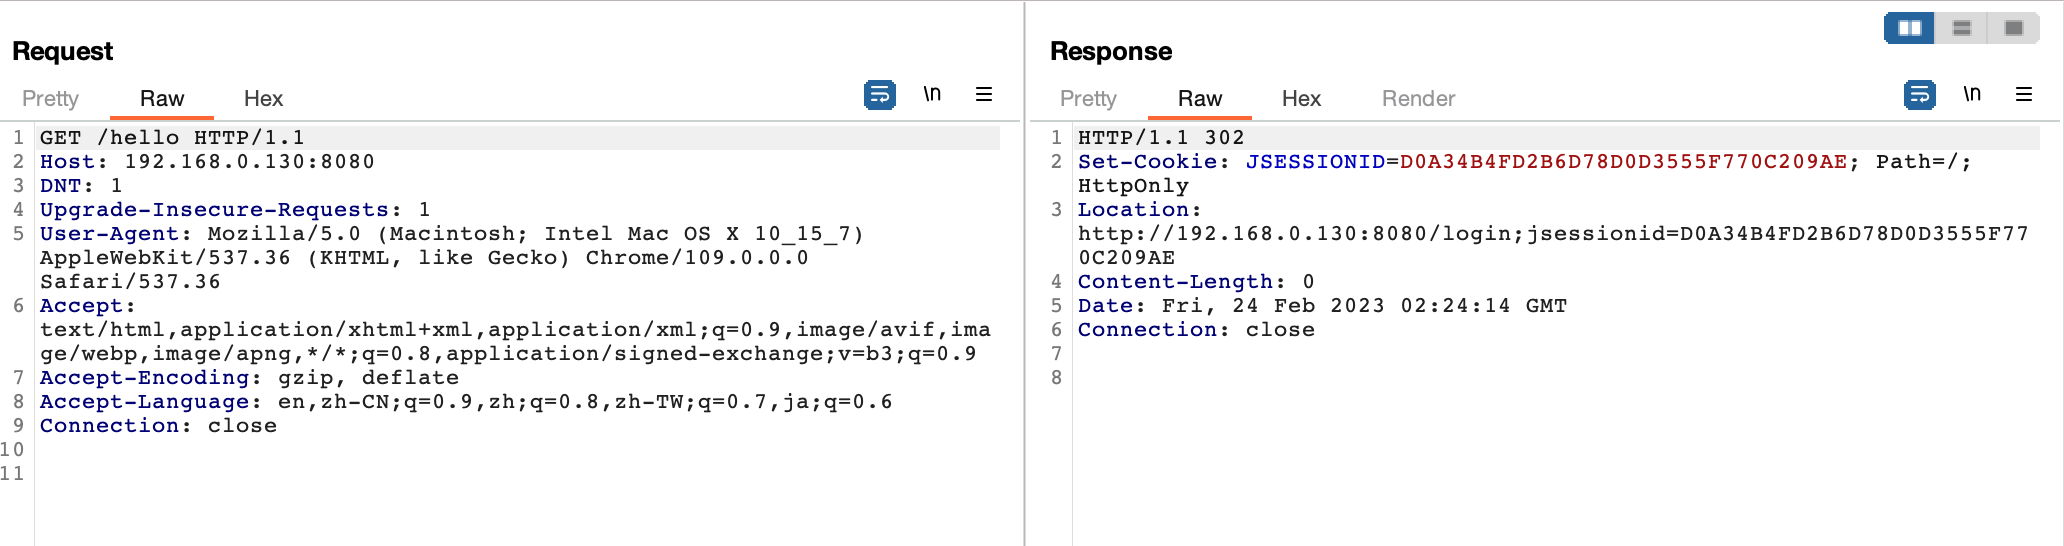
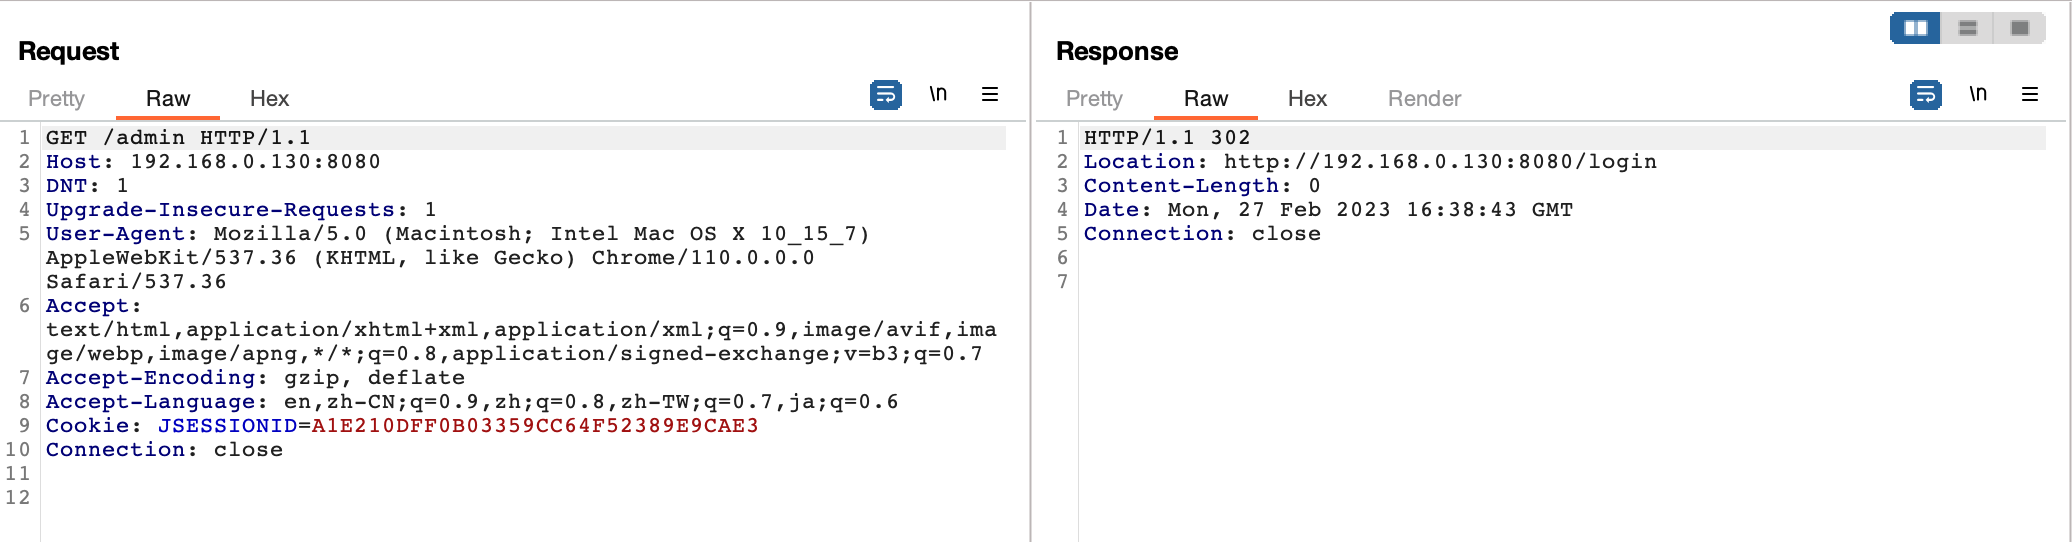
polish code

diff --git a/base/shiro/1.0.0/code/src/main/java/org/vulhub/shirodemo/UserController.java b/base/shiro/1.0.0/code/src/main/java/org/vulhub/shirodemo/UserController.java
@@ -21,9 +21,9 @@ public class UserController {
         return "forward:/";
     }
 
-    @RequestMapping("/hello")
+    @RequestMapping("/admin")
     public String helloPage() {
-        return "hello";
+        return "admin";
     }
 
     @RequestMapping("/unauth")
@@ -33,6 +33,11 @@ public class UserController {
 
     @RequestMapping("/login")
     public String loginPage() {
+        return "login";
+    }
+
+    @GetMapping("/")
+    public String index() {
         return "login";
     }
 }

diff --git a/base/shiro/1.0.0/code/src/main/java/org/vulhub/shirodemo/ShiroConfig.java b/base/shiro/1.0.0/code/src/main/java/org/vulhub/shirodemo/ShiroConfig.java
@@ -39,7 +39,7 @@ public class ShiroConfig {
         bean.setUnauthorizedUrl("/unauth");
         Map<String, String> map = new LinkedHashMap<>();
         map.put("/doLogin", "anon");
-        map.put("/hello", "user");
+        map.put("/admin/**", "user");
         map.put("/**", "anon");
         bean.setFilterChainDefinitionMap(map);
         return bean;

diff --git a/shiro/CVE-2010-3863/README.zh-cn.md b/shiro/CVE-2010-3863/README.zh-cn.md
@@ -22,10 +22,10 @@ docker-compose up -d
 
 ## 漏洞复现
 
-直接请求管理页面`/hello`，无法访问，将会被重定向到登录页面：
+直接请求管理页面`/admin`，无法访问，将会被重定向到登录页面：
 
 ![](1.png)
 
-构造恶意请求`/./hello`，即可绕过权限校验，访问到管理页面：
+构造恶意请求`/./admin`，即可绕过权限校验，访问到管理页面：
 
 ![](2.png)
